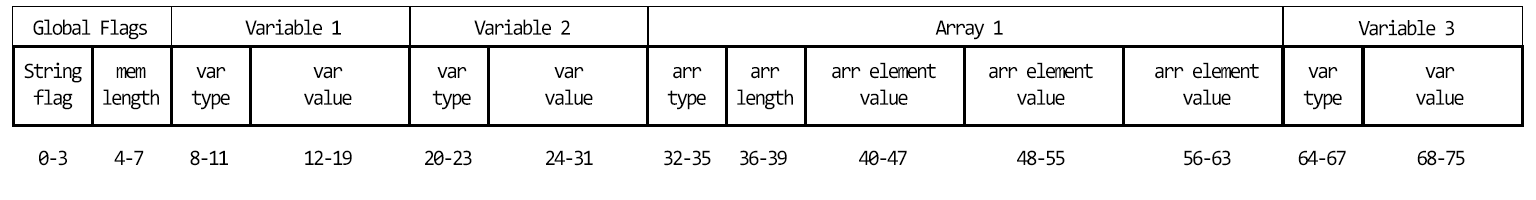
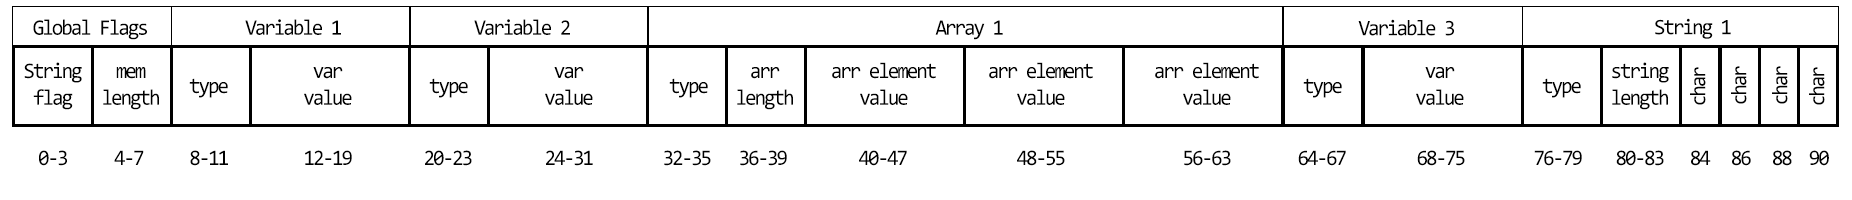
Work for unified memory. Arrays and strings done.

diff --git a/resources/compiler.js b/resources/compiler.js
@@ -1,6 +1,6 @@
-var memlen = 4;
+var memlen = 8;
 var memarr = [];
-var stringarr = [];
+/*elements in memarr are stored as quadrupels: name, type, start offset and length*/
 
 class Visitor {
 
@@ -90,6 +90,7 @@ visitCreateArray(node) {
 	else {
 	var out = "";
 	memarr.push(node.data[0]);
+	memarr.push(1);
 	memarr.push(memlen);
 	memarr.push(node.children.length);
 	var i;
@@ -107,38 +108,44 @@ visitGetArrayElement(node) {
 	if (memarr.includes(node.data[0])) {
 		var i = memarr.indexOf(node.data[0]);
 		var off;
-		if (node.children[0].data[0] >= memarr[i+2]) {console.error("Error: Array index out of bound"); return "";}
+		if (memarr[i+1]!==1) {console.error("Error: Not an array"); return "ERROR";}
+		if (node.children[0].data[0] >= memarr[i+2]) {console.error("Error: Array index out of bound"); return "ERROR";}
 		else {
 			off = (Number(memarr[i+1]) + Number(node.children[0].data[0]))*8;
 			return "(f64.load ".concat("(i32.const ",off,"))");
 		}
-	} else { console.error("Error: Array",node.data[0],"not yet created"); return "";}
+	} else { console.error("Error: Array",node.data[0],"not yet created"); return "ERROR";}
 }
   
 visitSetArrayElement(node) {
 	if (memarr.includes(node.data[0])) {
 		var i = memarr.indexOf(node.data[0]);
 		var off;
+		if (memarr[i+1]!==1) {console.error("Error: Not an array"); return "ERROR";}
 		if (node.children[0].data[0] >= memarr[i+2]) {console.error("Error: Array index out of bound");}
 		else {
 			off = (Number(memarr[i+1]) + Number(node.children[0].data[0]))*8;
 			return "(f64.store ".concat("(i32.const ",off,")",node.children[1].accept(),")");
 		}
-    } else {console.error("Error: Array",node.data[0],"not yet created"); return "";}
+    } else {console.error("Error: Array",node.data[0],"not yet created"); return "ERROR";}
 }
   
 visitArrayLength(node) {
     if (memarr.includes(node.data[0])) {
-      var i = Number(memarr.indexOf(node.data[0]));
-      return "(f64.const ".concat(memarr[i+2],")");
-    } else {console.error("Error: Array",node.data[0],"not yet created"); return "";}
+		if (memarr[i+1]!==1) {console.error("Error: Not an array"); return "ERROR";}
+    	var i = Number(memarr.indexOf(node.data[0]));
+    	return "(f64.const ".concat(memarr[i+2],")");
+    } else {console.error("Error: Array",node.data[0],"not yet created"); return "ERROR";}
 }
   
 visitCreateString(node) {
-	if (stringarr.includes(node.data[0])) { console.error("Error: Name",node.data[0],"already in use"); return "";}
+	if (memarr.includes(node.data[0])) { console.error("Error: Name",node.data[0],"already in use"); return "ERROR";}
 	else {
 	var out = "";
-  	stringarr.push(node.data[0], memlen);
+  	memarr.push(node.data[0]);
+	memarr.push(2);
+	memarr.push(memlen);
+	memarr.push(node.children[0].length);
 	for (var i = 0; i < node.children[0].length; i++)
 	{
 		var code = node.children[0].charCodeAt(i);
@@ -152,10 +159,11 @@ visitCreateString(node) {
 }
 
 visitGetString(node) {
-  	if (stringarr.includes(node.data[0])) {
-		var index = stringarr.indexOf(node.data[0]);
-		return "(i32.store (i32.const 0)(i32.const 1))\n(f64.const ".concat(stringarr[index+1],")");
-	} else { console.error("Error: String",node.data[0],"not yet created"); return "";}
+  	if (memarr.includes(node.data[0])) {
+		var index = memarr.indexOf(node.data[0]);
+		if (memarr[index+1]!==2) {console.error("Error: Not a string"); return "ERROR";}
+		return "(i32.store (i32.const 0)(i32.const 1))\n(f64.const ".concat(memarr[index+2],")");
+	} else { console.error("Error: String",node.data[0],"not yet created"); return "ERROR";}
 }
 
 /*visitConcatString(node) {
@@ -194,7 +202,7 @@ visitGetVariable(node) {
 window.visit = new Visitor();
 
 (ast) => {
-    memlen = 4;
+    memlen = 8;
     memarr = [];
 	return ast.accept();
 }

diff --git a/index.html b/index.html
@@ -7,10 +7,9 @@
 <script src="resources/parser.js"></script>
 <script>
 function write(input) {
-    memlen = 4;
+    memlen = 8;
     memarr = [];
     stringarr = [];
-    stringmem = [];
     var root = Parser.parse(input);
     var textToWrite = visit.visitModule(root);
     var textFileAsBlob = new Blob([textToWrite], {type:'text/plain'});
@@ -32,9 +31,8 @@ function write(input) {
         downloadLink.style.display = "none";
         document.body.appendChild(downloadLink);
     }
-    
-    console.log(textToWrite);
-    console.log("The above has been written to file 'index.wat'");
+
+    console.log("The program has been written to file 'index.wat'");
 
     downloadLink.click();
 }

diff --git a/README.md b/README.md
@@ -38,6 +38,7 @@ Here is a draft for an example of the new memory usage.
 
 First four bytes are reserved for the string flag and the memory length. Then variables have a fixed length of 12 bytes: 4 bytes for the type and 8 bytes for the value. Arrays have a length of at least 16 bytes: 4 bytes for the type, 4 bytes for the length and at least one value with 8 bytes.
 Strings are like arrays, only the values in there are utf-16 code for the Characters. Minimum Size for a string is 12 bytes: 4 bytes for the type, 4 bytes for the length, 2 bytes for a character, and 2 bytes for the null character.
+In the compiler memory, arrays and strings (variables will follow) are now written as quadrupels {name, type, start offset, length}.
 
 ## Project Idea
 
